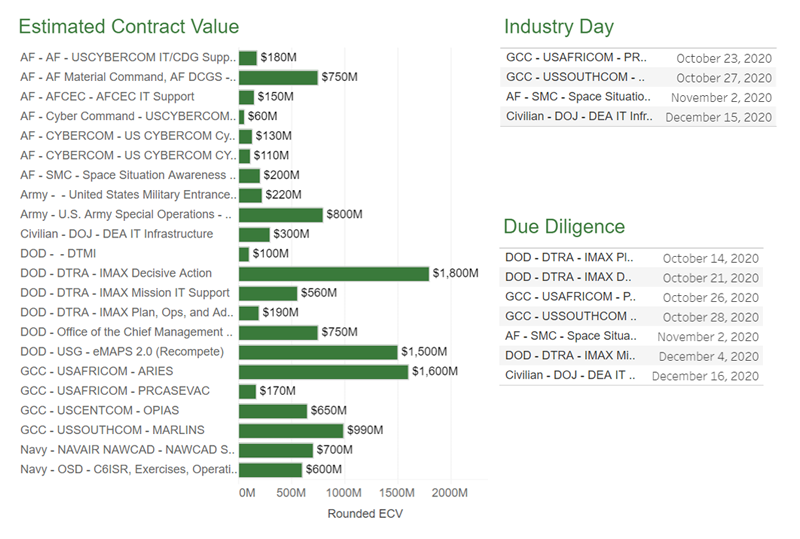
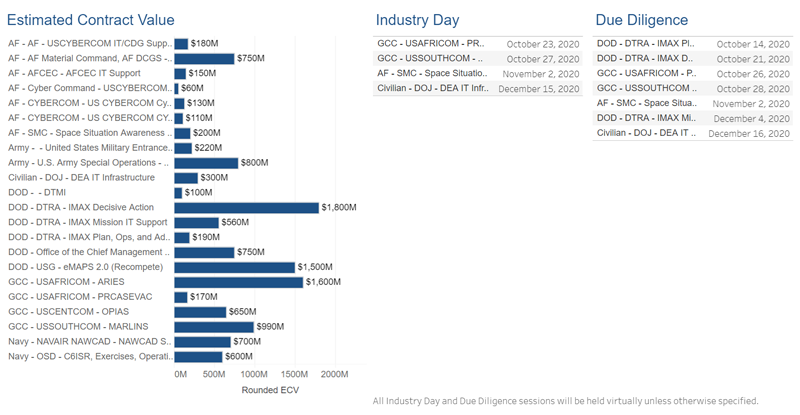
Updated charts

diff --git a/_includes/industry.html b/_includes/industry.html
@@ -36,7 +36,7 @@
         <h2 class="whitetext">Opportunities</h2>
         <p>Active procurements listed are in the stage of collecting requirements and solicitation development with the client. All official notifications will be transmitted via eBuy. For updates, visit our Leadership page to identify the designated point of contact. </p>
         
-        <a href="https://public.tableau.com/views/AcquisitionDashboardV3/ActiveProcurements?:language=en&:retry=yes&:display_count=y&:origin=viz_share_link" onClick="return confirm('This link will take you to the FEDSIM Opportunities Chart on the Tableau website, which is managed by Tableau.')" class="external" target="_new">{% asset chart_mobile.png alt="Opportunities Chart" %}</a>
+        <a href="https://public.tableau.com/views/Mobile_16009568825130/ActiveProcurementsMobile?:language=en&:display_count=y&:origin=viz_share_link" onClick="return confirm('This link will take you to the FEDSIM Opportunities Chart on the Tableau website, which is managed by Tableau.')" class="external" target="_new">{% asset chart_mobile.png alt="Opportunities Chart" %}</a>
     
         <p>Partnership opportunities with private sector clients are critical for FEDSIM's ongoing development and understanding of the private sector. Throughout our evolution, FEDSIM has maintained an open, mutually beneficial relationship with industry partners based on transparency and clear communication. </p>      
     </div>
